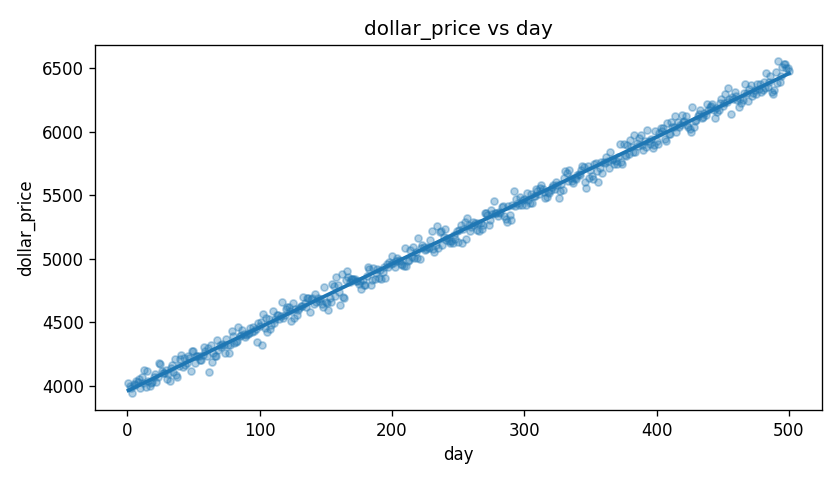
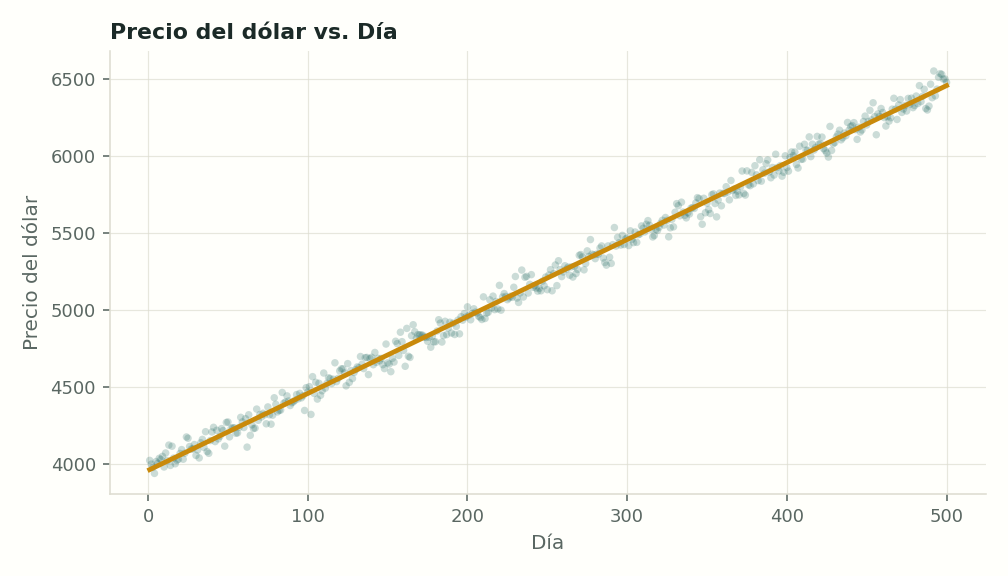
style(report): theme figures to match the web UI palette
Matplotlib helpers use DESIGN.md colors and Spanish labels; PNGs are
regenerated for the predictor relations panel.

diff --git a/src/arepa/visualization.py b/src/arepa/visualization.py
@@ -1,4 +1,7 @@
-"""Plotting helpers for EDA and report figures."""
+"""Plotting helpers for EDA and report figures.
+
+Colors mirror frontend/DESIGN.md so the figures sit naturally inside the web UI.
+"""
 
 from __future__ import annotations
 
@@ -7,6 +10,51 @@ from pathlib import Path
 import matplotlib.pyplot as plt
 import pandas as pd
 import seaborn as sns
+from matplotlib.colors import LinearSegmentedColormap
+
+INK = "#1B2A27"
+AXIS = "#5A6762"
+GRID = "#DEDDD1"
+SURFACE = "#FFFFFB"
+POINT = "#16615B"
+LINE = "#C98A0B"
+MORA = "#A8395A"
+
+LABELS = {
+    "day": "Día",
+    "inflation_rate": "Inflación diaria",
+    "interest_rate": "Tasa de interés (%)",
+    "dollar_price": "Precio del dólar",
+    "age": "Edad (años)",
+    "bmi": "IMC",
+    "physical_activity_hours": "Actividad física (h/semana)",
+    "glucose_level": "Glucosa (mg/dL)",
+    "temperature": "Temperatura (°C)",
+    "hour": "Hora del día",
+    "day_of_week": "Día de la semana",
+    "energy_consumption": "Consumo (kWh)",
+}
+
+CORRELATION_CMAP = LinearSegmentedColormap.from_list("arepa", [MORA, SURFACE, POINT])
+
+
+def _label(column: str) -> str:
+    return LABELS.get(column, column)
+
+
+def _style(fig: plt.Figure, ax: plt.Axes) -> None:
+    fig.patch.set_facecolor(SURFACE)
+    ax.set_facecolor(SURFACE)
+    for side in ("top", "right"):
+        ax.spines[side].set_visible(False)
+    for side in ("left", "bottom"):
+        ax.spines[side].set_color(GRID)
+    ax.tick_params(colors=AXIS, labelsize=9)
+    ax.xaxis.label.set_color(AXIS)
+    ax.yaxis.label.set_color(AXIS)
+    ax.title.set_color(INK)
+    ax.grid(color=GRID, linewidth=0.6, alpha=0.7)
+    ax.set_axisbelow(True)
 
 
 def plot_feature_relationship(
@@ -16,24 +64,54 @@ def plot_feature_relationship(
     save_path: Path | None = None,
 ) -> None:
     fig, ax = plt.subplots(figsize=(7, 4))
-    sns.regplot(data=df, x=feature, y=target, scatter_kws={"alpha": 0.35, "s": 18}, ax=ax)
-    ax.set_title(f"{target} vs {feature}")
+    _style(fig, ax)
+    sns.regplot(
+        data=df,
+        x=feature,
+        y=target,
+        scatter_kws={"alpha": 0.22, "s": 14, "color": POINT, "edgecolors": "none"},
+        line_kws={"color": LINE, "linewidth": 2.4},
+        ax=ax,
+    )
+    ax.set_xlabel(_label(feature))
+    ax.set_ylabel(_label(target))
+    ax.set_title(f"{_label(target)} vs. {_label(feature)}", loc="left", fontsize=11, fontweight="semibold", color=INK)
     fig.tight_layout()
     if save_path:
         save_path.parent.mkdir(parents=True, exist_ok=True)
-        fig.savefig(save_path, dpi=120)
+        fig.savefig(save_path, dpi=144, facecolor=SURFACE)
     plt.close(fig)
 
 
 def plot_correlation_heatmap(df: pd.DataFrame, columns: list[str], save_path: Path | None = None) -> None:
-    corr = df[columns].corr()
+    corr = df[columns].corr().rename(index=_label, columns=_label)
     fig, ax = plt.subplots(figsize=(6, 5))
-    sns.heatmap(corr, annot=True, fmt=".2f", cmap="coolwarm", center=0, ax=ax)
-    ax.set_title("Feature correlation")
+    _style(fig, ax)
+    ax.grid(False)
+    sns.heatmap(
+        corr,
+        annot=True,
+        fmt=".2f",
+        cmap=CORRELATION_CMAP,
+        vmin=-1,
+        vmax=1,
+        center=0,
+        linewidths=2,
+        linecolor=SURFACE,
+        annot_kws={"fontsize": 9},
+        cbar_kws={"shrink": 0.8},
+        ax=ax,
+    )
+    ax.set_title("Correlación entre variables", loc="left", fontsize=11, fontweight="semibold", color=INK)
+    ax.tick_params(length=0)
+    plt.setp(ax.get_xticklabels(), rotation=30, ha="right")
+    colorbar = ax.collections[0].colorbar
+    colorbar.outline.set_visible(False)
+    colorbar.ax.tick_params(colors=AXIS, labelsize=8, length=0)
     fig.tight_layout()
     if save_path:
         save_path.parent.mkdir(parents=True, exist_ok=True)
-        fig.savefig(save_path, dpi=120)
+        fig.savefig(save_path, dpi=144, facecolor=SURFACE)
     plt.close(fig)
 
 
